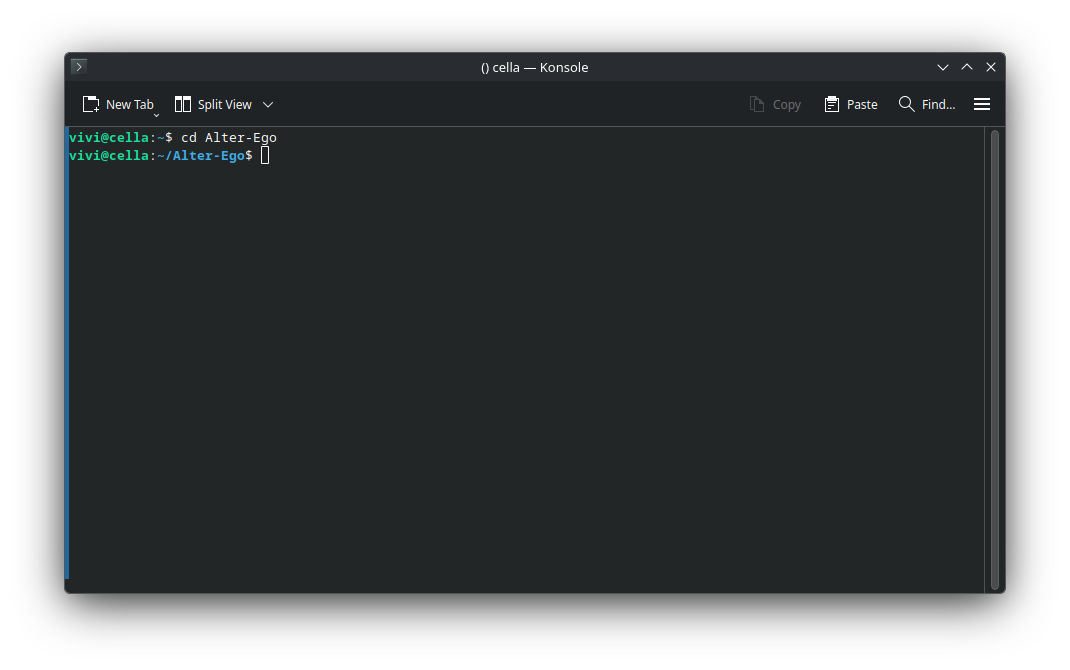
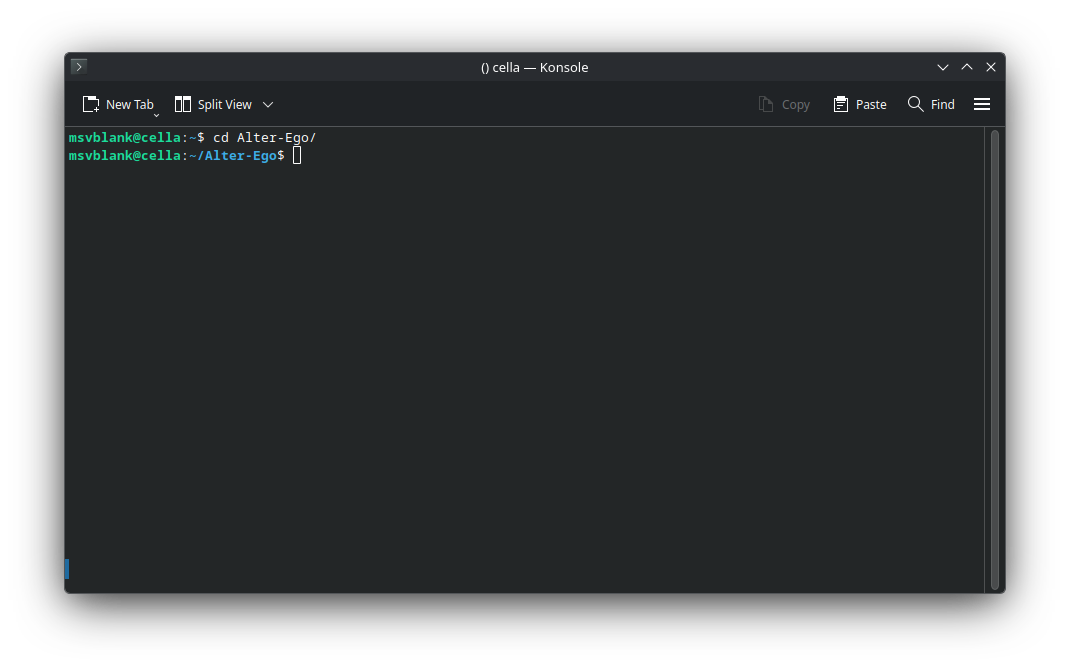
Fixed installation pages.

Changed region(s): [[0.0617, 0.1791, 0.2776, 0.2388], [0.7093, 0.1194, 0.8944, 0.1791]]

diff --git a/Docs/appendix/manual_installation/node.md b/Docs/appendix/manual_installation/node.md
@@ -22,9 +22,8 @@ computer.
 
 Downloading Alter Ego as a ZIP file is not recommended however, as that makes it harder to keep your copy of Alter Ego
 up to date. If you do not already have Git, [install the official GitHub Desktop app](https://desktop.github.com/), and
-then click File > Clone Repository, then navigate to the URL tab and paste the Alter Ego repository link like so:
-
-![The "Clone a repository" menu of the GitHub Desktop app](../../images/github_desktop_clone_repo.png)
+then click File > Clone Repository, then navigate to the URL tab and paste the Alter Ego repository link into the URL
+input dialog.
 
 If you've done it this way, then you can update Alter Ego by clicking the **Pull origin** button in the GitHub Desktop
 app.
@@ -48,20 +47,14 @@ Where `VERSION` is the version of Alter Ego you wish to use (e.g. `2.0.0`).
 
 #### Without Git
 
-Go to the Alter Ego GitHub page and download the latest release. Click the releases box and select the latest one.
-
-![Click on the most recent release](../../images/github_releases_menu.png)
-
-There, you will see something like this.
-
-![The page for the most recent release of Alter Ego](../../images/github_release_page.png)
-
-Download the source code archive `Source code (zip)`. Use your favorite archive utility to open the archive (e.g. 7zip,
-GNOME Archive Manager, PeaZip), and extract the contents into your folder of choice.
+Go to the Alter Ego GitHub page and download open the **Assets** menu for the
+[latest release](https://github.com/MsVBLANK/Alter-Ego/releases). Then, download either `Source code (zip)` or
+`Source code (tar.gz)`, whichever you prefer. Then, use your favorite archive utility to open the archive
+(e.g. 7zip, GNOME Archive Manager, PeaZip), and extract the contents into your folder of choice.
 
 ## Step 2: Install Node.js with nvm
 
-Alter Ego runs on, Node.js a JavaScript runtime environment. Without installing it to your computer, you won't be able
+Alter Ego runs on Node.js, a JavaScript runtime environment. Without installing it to your computer, you won't be able
 to run Alter Ego.
 
 To make installing Node.js simpler, we recommend using nvm (Node Version Manager). Nvm helps you match your node version
@@ -93,9 +86,8 @@ the required dependencies.
 
 Now that you have Alter Ego installed, you'll need to create a new Discord bot to bind its functionality to. Navigate
 to [the Discord Developer Portal](https://discord.com/developers/applications), and once you log in to your Discord
-account, create a new application. You can call it whatever you like. This example will use an application called
-"Alter Ego", but you can call it whatever you want. Once you create the application, you'll be taken to a page
-that looks like this:
+account, create a new application. This example will use an application called "Alter Ego", but you can call it
+whatever you like. Once you create the application, you'll be taken to a page that looks like this:
 
 ![The General Information page of a Discord Application](../../images/discord_app_general_page.png)
 
@@ -206,7 +198,7 @@ On the next page, click the link that says **Manage service accounts**:
 
 ![Google Cloud's Credentials page](../../images/google_cloud_credentials_page.png)
 
-On the next page, click the **Create service account**. You should be brought to a page like this:
+On the next page, click **Create service account**. You should be brought to a page like this:
 
 ![Google Cloud's Create service account page](../../images/google_cloud_credentials_creation.png)
 

diff --git a/Docs/moderator_guide/installation.md b/Docs/moderator_guide/installation.md
@@ -104,9 +104,8 @@ You can also consult this [YouTube tutorial](https://www.youtube.com/watch?v=SGm
 
 Now that you have Alter Ego installed, you'll need to create a new Discord bot to bind its functionality to. Navigate
 to [the Discord Developer Portal](https://discord.com/developers/applications), and once you log in to your Discord
-account, create a new application. You can call it whatever you like. This example will use an application called
-"Alter Ego", but you can call it whatever you want. Once you create the application, you'll be taken to a page
-that looks like this:
+account, create a new application. This example will use an application called "Alter Ego", but you can call it
+whatever you like. Once you create the application, you'll be taken to a page that looks like this:
 
 ![The General Information page of a Discord Application](../images/discord_app_general_page.png)
 
@@ -217,7 +216,7 @@ On the next page, click the link that says **Manage service accounts**:
 
 ![Google Cloud's Credentials page](../images/google_cloud_credentials_page.png)
 
-On the next page, click the **Create service account**. You should be brought to a page like this:
+On the next page, click **Create service account**. You should be brought to a page like this:
 
 ![Google Cloud's Create service account page](../images/google_cloud_credentials_creation.png)
 